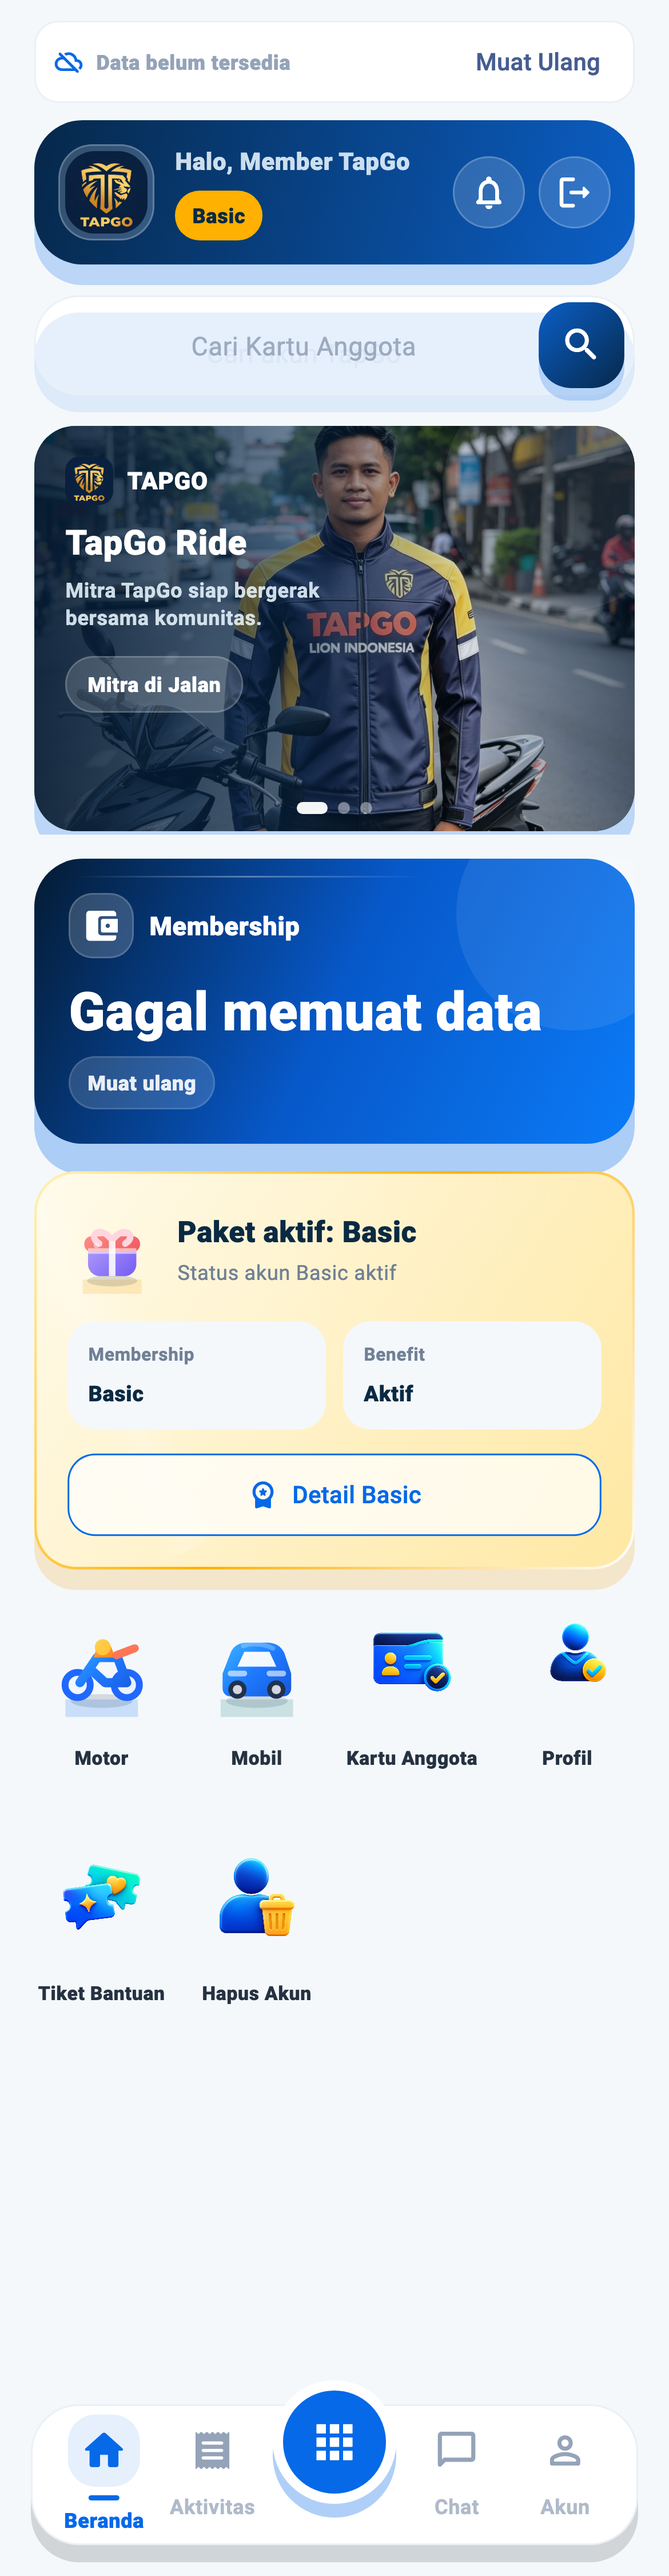
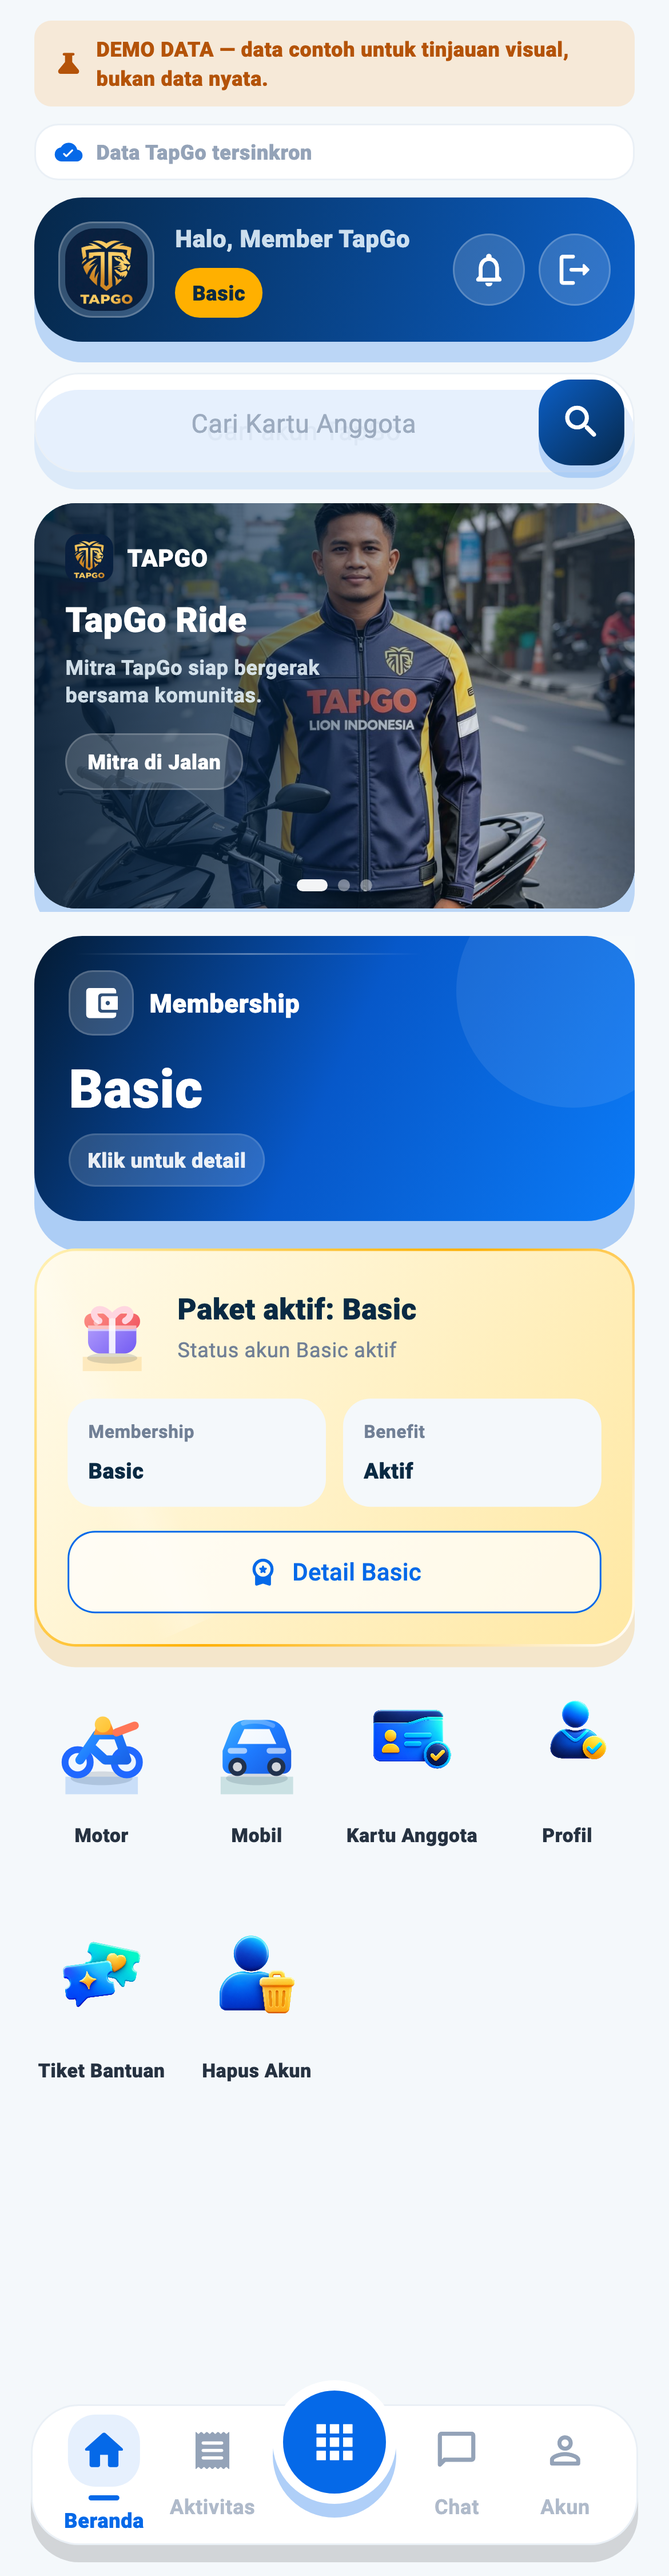
docs(ride): refresh r2.4 responsive visual evidence
Tangkapan layar dashboard kini memakai fixture visual deterministik,
sehingga tidak lagi memperlihatkan "Data belum tersedia" dan "Gagal memuat
data" — state gagal muat yang muncul hanya karena harness tidak punya
backend, dan bukan bagian dari apa yang ingin ditinjau. Fixture menandai
dirinya dengan label DEMO DATA.

Ditambahkan 19_play_dashboard_320dp.png sebagai bukti langsung Stage R2.4S:
lebar terkecil yang didukung, bebas overflow, entry Motor dan Mobil tetap
ada dengan label utuh.

Harness kini menegaskan sendiri bahwa tangkapan layar dashboard, 320 dp, dan
teks besar bebas overflow — jadi artefak tidak dapat lolos dalam keadaan
meluber.

15_width_320.png dan 17_large_text.png dibuat ulang dan ternyata identik
byte demi byte: keduanya menampilkan layar Ride, sedangkan perbaikan R2.4S
terbatas pada komponen dashboard.

Contact sheet diperbarui menjadi 20 tangkapan layar.

diff --git a/apps/user_app/test/ride_visual_evidence_test.dart b/apps/user_app/test/ride_visual_evidence_test.dart
@@ -193,6 +193,26 @@ void main() {
     );
   }
 
+  /// Menegaskan tangkapan layar bebas overflow, bukan sekadar terlihat rapi.
+  Future<void> Function(WidgetTester) expectNoOverflow() {
+    final overflows = <String>{};
+    final previousHandler = FlutterError.onError;
+    FlutterError.onError = (details) {
+      final message = details.exception.toString().split('\n').first;
+      if (message.contains('overflowed')) {
+        overflows.add(message);
+      } else {
+        previousHandler?.call(details);
+      }
+    };
+    return (tester) async {
+      FlutterError.onError = previousHandler;
+      tester.takeException();
+      expect(overflows, isEmpty,
+          reason: 'tangkapan layar harus bebas overflow');
+    };
+  }
+
   Future<void> pickRouteAndQuote(WidgetTester tester) async {
     for (final label in const ['LOKASI_DEMO_A', 'LOKASI_DEMO_B']) {
       final finder = label == 'LOKASI_DEMO_A'
@@ -248,6 +268,10 @@ void main() {
       expect(tapGoIsPlayDistribution, isTrue);
       tapGoRideHistoryLoaderForTests = () async => const [];
       addTearDown(() => tapGoRideHistoryLoaderForTests = null);
+      // Fixture deterministik: tangkapan layar menampilkan data contoh yang
+      // stabil, bukan state gagal muat karena test tidak punya backend.
+      tapGoDashboardVisualFixtureEnabled = true;
+      addTearDown(() => tapGoDashboardVisualFixtureEnabled = false);
 
       final overflows = <String>{};
       final previousHandler = FlutterError.onError;
@@ -285,6 +309,14 @@ void main() {
             findsOneWidget,
           );
           expect(overflows, isEmpty, reason: 'screenshot harus bebas overflow');
+          // Fixture wajib menandai dirinya, dan state gagal muat tidak boleh
+          // ikut terpotret.
+          expect(
+            find.textContaining(tapGoDashboardFixtureLabel),
+            findsOneWidget,
+          );
+          expect(find.text('Gagal memuat data'), findsNothing);
+          expect(find.text('Data belum tersedia'), findsNothing);
         },
       );
     });
@@ -491,6 +523,7 @@ void main() {
         '15_width_320',
         width: 320,
         height: 900,
+        beforeCapture: expectNoOverflow(),
         child: statusScreen(
           orderPayload(
             status: 'DRIVER_ARRIVED',
@@ -524,6 +557,7 @@ void main() {
         width: 390,
         height: 1100,
         textScaler: const TextScaler.linear(1.8),
+        beforeCapture: expectNoOverflow(),
         child: statusScreen(
           orderPayload(
             status: 'DRIVER_ARRIVED',
@@ -533,6 +567,46 @@ void main() {
         ),
       );
     });
+    testWidgets('19 dashboard Play pada 320 dp', (tester) async {
+      // Bukti langsung Stage R2.4S: lebar terkecil yang didukung, bebas
+      // overflow, entry Motor dan Mobil tetap ada.
+      expect(tapGoIsPlayDistribution, isTrue);
+      tapGoRideHistoryLoaderForTests = () async => const [];
+      addTearDown(() => tapGoRideHistoryLoaderForTests = null);
+      tapGoDashboardVisualFixtureEnabled = true;
+      addTearDown(() => tapGoDashboardVisualFixtureEnabled = false);
+
+      final assertClean = expectNoOverflow();
+
+      await shoot(
+        tester,
+        '19_play_dashboard_320dp',
+        width: 320,
+        height: 1500,
+        child: const TapGoDashboard(),
+        beforeCapture: (tester) async {
+          for (var round = 0; round < 5; round += 1) {
+            await tester.runAsync(
+              () => Future<void>.delayed(const Duration(milliseconds: 120)),
+            );
+            for (var frame = 0; frame < 6; frame += 1) {
+              await tester.pump(const Duration(milliseconds: 80));
+            }
+          }
+          await assertClean(tester);
+          final grid = find.byType(GridView);
+          expect(
+            find.descendant(of: grid, matching: find.text('Motor')),
+            findsOneWidget,
+          );
+          expect(
+            find.descendant(of: grid, matching: find.text('Mobil')),
+            findsOneWidget,
+          );
+        },
+      );
+    });
+
     testWidgets('18 perjalanan aktif dipulihkan dari server', (tester) async {
       await shoot(
         tester,
@@ -586,7 +660,7 @@ void main() {
       // Sheet hanya bermakna bila seluruh 19 tangkapan layar memang ada.
       expect(
         files,
-        hasLength(19),
+        hasLength(20),
         reason: 'jumlah tangkapan layar tidak sesuai: '
             '${files.map((f) => f.uri.pathSegments.last).toList()}',
       );
